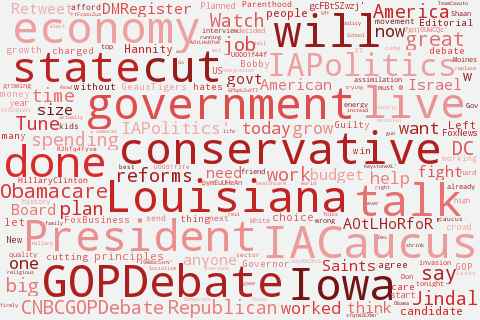
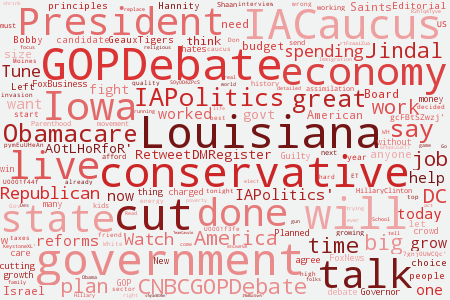
css improvements, displaying candidate sections in a block with their wordclouds

diff --git a/templates/index.html b/templates/index.html
@@ -15,23 +15,25 @@
 <div id="container">
 	{% for c in candidates %}
 	<div class="candidate_section"><a name="{{c.last_name}}"></a>
-		<div class="candidate">
-		{% if c.party == "Democratic Party" %}
-			<h3 class="dem">{{c.first_name.upper()}} {{c.last_name.upper()}}</h3>
-		{% endif %}
-		{% if c.party == "Republican Party" %}
-			<h3 class="rep">{{c.first_name.upper()}} {{c.last_name.upper()}}</h3>
-		{% endif %}
-			 	<h4>{{c.state}} - {{c.party}}</h4>
-			<img src="/static/colorjpgs/{{c.id}}.jpg", class="candidate_portrait">
-			<br>
-	 			<a href="http://{{c.campaign_site}}", target="_blank", class="candidate_links">{{c.campaign_site}}</a>
-			<ul class="social_media">
-				<li><a href="http://twitter.com/{{c.twitter_name}}", target="_blank"><img src="/static/design/Twitter-Logo-Transparent.gif", class="social_media"></a></li>
-				<li><a href="{{c.facebook_site}}", target="_blank"><img src="/static/design/facebook_logo_transparent.png" class="social_media"></a></li>
-			</ul>
+		<div class="candidate_section_block">
+			<div class="candidate">
+			{% if c.party == "Democratic Party" %}
+				<h3 class="dem">{{c.first_name.upper()}} {{c.last_name.upper()}}</h3>
+			{% endif %}
+			{% if c.party == "Republican Party" %}
+				<h3 class="rep">{{c.first_name.upper()}} {{c.last_name.upper()}}</h3>
+			{% endif %}
+				 	<h4>{{c.state}} - {{c.party}}</h4>
+				<img src="/static/colorjpgs/{{c.id}}.jpg", class="candidate_portrait">
+				<br>
+		 			<a href="http://{{c.campaign_site}}", target="_blank", class="candidate_links">{{c.campaign_site}}</a>
+				<ul class="social_media">
+					<li><a href="http://twitter.com/{{c.twitter_name}}", target="_blank"><img src="/static/design/Twitter-Logo-Transparent.gif", class="social_media"></a></li>
+					<li><a href="{{c.facebook_site}}", target="_blank"><img src="/static/design/facebook_logo_transparent.png" class="social_media"></a></li>
+				</ul>
+			</div>
+			<img src="/static/wordcloud_pngs/{{c.id}}_block_wordcloud.png" class="candidate_wordcloud">
 		</div>
-		<img src="/static/wordcloud_pngs/{{c.id}}_block_wordcloud.png" class="candidate_wordcloud">
 	</div>
 	{% endfor %}
 </div>

diff --git a/static/min.css b/static/min.css
@@ -25,14 +25,11 @@ img.left_star {
 	text-align:left;
 	height: 25px;
 	width: 25px;
-	margin-right: 10px;
 }
 
 img.right_star {
 	display: inline-block;
 	text-align: right;
-	margin-left: 7px;
-
 	height: 25px;
 	width: 25px;
 }
@@ -43,20 +40,16 @@ header {
 	margin-top: 0;
 	padding-top: 30px;
 	text-align: center !important;
-/*	border-bottom: solid #221F73 70px;*/
-
 }
 
 header h1 {
  	font-size: 30px;
 	color: #221F73;
-	margin-bottom: 0;
-	margin-top: 0;
+	margin: 0 5px;
 	font-family: 'Roboto Condensed', sans-serif;
 	font-weight: 400;
 	letter-spacing: 5px;
 	display: inline-block;
-	/*line-height: 8px;*/
 }
 
 header h2 {
@@ -109,26 +102,33 @@ header a:hover {
 	color: #C6282E;
 }
 
-div.candidate_section {
-	}
-
 div.candidate_section:nth-child(odd) {
-	padding: 40px;
+	/*padding: 10px;*/
+}
+
+div.candidate_section:nth-child(odd) .candidate_section_block {
+	display: inline-block;
 }
 
 div.candidate_section:nth-child(odd) .candidate {
 	display: inline-block;
 	float: left;
+	margin: 35px;
 }
 
 div.candidate_section:nth-child(even) {
-	padding: 40px;
+	/*padding: 10px;*/
 	background: #F1F2F2;
+}
+
+div.candidate_section:nth-child(even) .candidate_section_block {
+	display: inline-block;
 }
 
 div.candidate_section:nth-child(even) .candidate {
 	display: inline-block;
 	float: right;
+	margin: 30px;
 }
 
 ul.social_media {
@@ -139,6 +139,11 @@ ul.social_media {
 
 img.candidate_portrait {
 	margin-bottom: 12px;
+}
+
+img.candidate_wordcloud {
+	padding: 15px;
+	margin-top: 18px;
 }
 
 img.social_media {

diff --git a/make_wordclouds.py b/make_wordclouds.py
@@ -80,7 +80,7 @@ for c in candidates:
 		background_color = "white"
 	else:
 		background_color = "#F1F2F2"
-	wordcloud = WordCloud(background_color=background_color, margin=1, max_font_size=45, max_words=175, width=480, height=320, prefer_horizontal=1.0, stopwords=STOPWORDS)
+	wordcloud = WordCloud(background_color=background_color, margin=1, max_font_size=45, max_words=165, width=450, height=300, prefer_horizontal=1.0, stopwords=STOPWORDS)
 	wordcloud.generate(text)
 	if c.party == 'Republican Party':
 		print c.party
